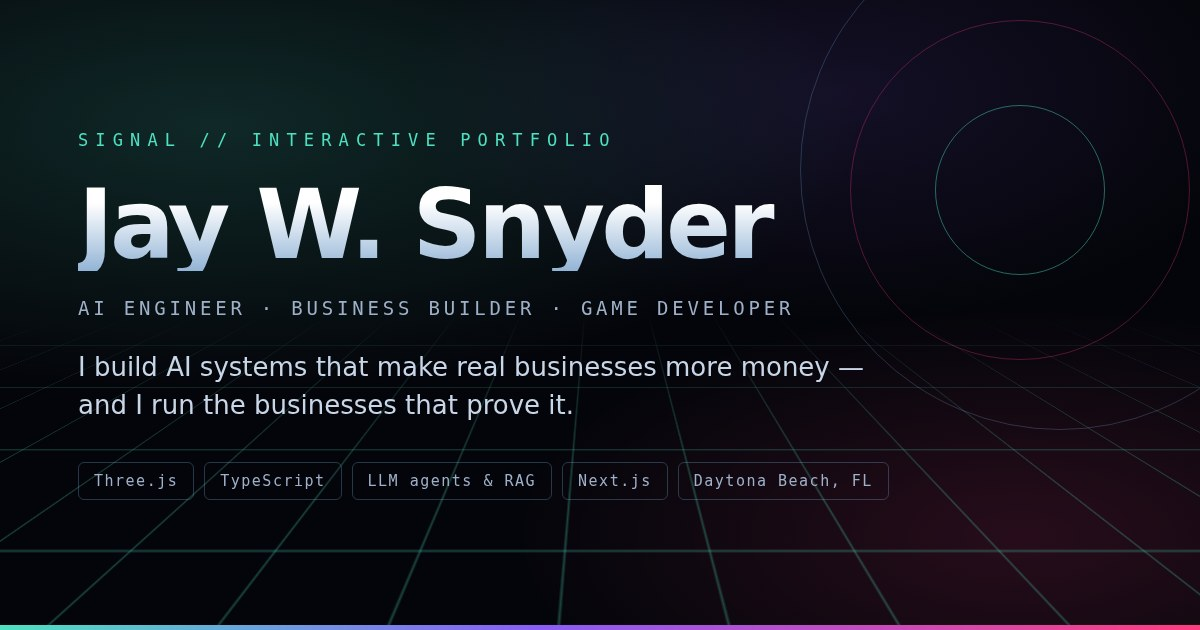
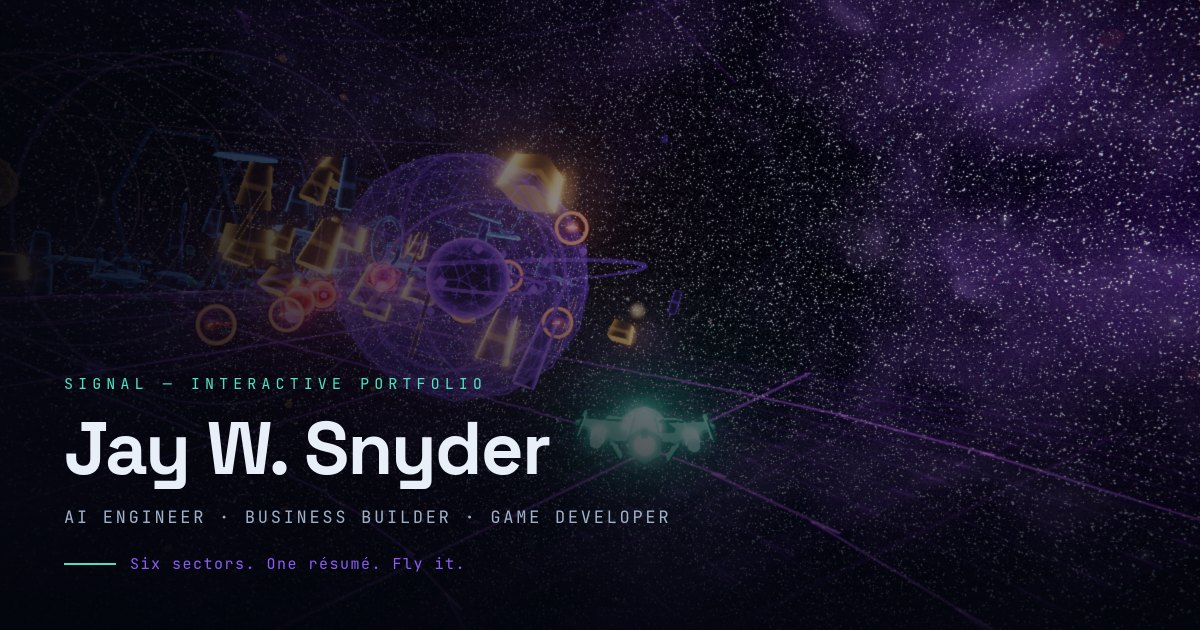
Make threat markers readable over bloom, give the sky parallax, redo the OG card
Three items the graphics review named, in order of how much they cost.

Threat markers were drawn additively, and hostiles cluster around the node —
the brightest object in the frame. An additive ring over a bloom source has
nothing left to add, so the one layer that has to stay readable, the one saying
where the things shooting at you are, was the first to dissolve. The marker is
normal-blended now with a dark moat outside its ring: a band that takes light
away separates against any background there is. It also draws after the world,
so a prop can never sort in front of the thing it marks.

The sky had no parallax at all. A skybox is pinned to camera rotation and
nothing else, so across a six-sector flight the ship moved thousands of units
and the backdrop did not shift by a pixel — every depth cue in the frame was in
the foreground, and the largest surface in view was rigid. The noise field it
samples is volumetric, so the sample point now drifts with the camera, and the
two layers drift at very different rates: the deep cloud barely moves, which is
right for something light-years out, while the filaments drift four times
faster. It is that difference the eye reads as distance. Verified by rendering
the sky in isolation at fixed camera pose across a route's worth of travel,
against a frozen-drift control — the shape of check that would have caught it
being a no-op.

The social card was still the v2 look, rendered with fallback system fonts
[…]

diff --git a/src/world/Nebula.ts b/src/world/Nebula.ts
@@ -32,6 +32,7 @@ const FRAG = /* glsl */ `
   uniform vec3 uDeep;
   uniform float uTime;
   uniform float uDensity;
+  uniform vec3 uEye;
   varying vec3 vDir;
 
   float hash(vec3 p) {
@@ -67,12 +68,33 @@ const FRAG = /* glsl */ `
     vec3 d = normalize(vDir);
 
     // Very slow drift keeps the sky alive without ever drawing attention.
-    vec3 p = d * 2.2 + vec3(0.0, 0.0, uTime * 0.006);
+    /*
+     * Parallax.
+     *
+     * A skybox is pinned to the camera's rotation and nothing else, so for the
+     * whole length of a six-sector flight the backdrop is rigid: the ship moves
+     * thousands of units and the sky behind it does not shift by a pixel. That
+     * is why the corridor read as objects in a void — everything with depth cues
+     * was in the foreground, and the largest surface in frame was flat.
+     *
+     * True parallax is impossible on a sphere at the far plane, but the noise
+     * field it samples is volumetric, so drifting the sample point with the
+     * camera gives the same read for one uniform.
+     *
+     * The rates matter more than the magnitude. The deep cloud barely moves,
+     * which is correct — a nebula light-years out should not swim past the
+     * canopy — while the filaments drift an order of magnitude faster. It is
+     * that *difference* the eye reads as distance, not the absolute motion, so
+     * the sky stays still enough to feel vast and still shifts enough that you
+     * can tell you are travelling through it rather than dragging it along.
+     */
+    vec3 drift = uEye * 0.00045;
+    vec3 p = d * 2.2 + drift + vec3(0.0, 0.0, uTime * 0.006);
 
     float base = fbm(p);
     // Domain warp: feed the first field back in to get filaments and voids
     // instead of the cotton-wool look plain fbm gives you.
-    float wisp = fbm(p * 2.6 + vec3(base * 2.4));
+    float wisp = fbm(p * 2.6 + drift * 4.0 + vec3(base * 2.4));
 
     /*
      * Thresholds are the whole ballgame here, and this shader has now been
@@ -129,6 +151,7 @@ export class Nebula {
         uDeep: { value: new THREE.Color(0x04050c) },
         uTime: { value: 0 },
         uDensity: { value: density },
+        uEye: { value: new THREE.Vector3() },
       },
       vertexShader: VERT,
       fragmentShader: FRAG,
@@ -157,8 +180,9 @@ export class Nebula {
     this.material.uniforms.uDensity.value = v;
   }
 
-  update(elapsed: number, dt: number): void {
+  update(elapsed: number, dt: number, eye?: THREE.Vector3): void {
     this.material.uniforms.uTime.value = elapsed;
+    if (eye) (this.material.uniforms.uEye.value as THREE.Vector3).copy(eye);
     const k = Math.min(1, dt * 1.1);
     (this.material.uniforms.uColorA.value as THREE.Color).lerp(this.targetA, k);
     (this.material.uniforms.uColorB.value as THREE.Color).lerp(this.targetB, k);

diff --git a/src/world/Enemy.ts b/src/world/Enemy.ts
@@ -177,23 +177,36 @@ export function buildEnemy(kind: EnemyKind, color: number, size: number): EnemyV
         void main() {
           float r = length(vUv - 0.5) * 2.0;
           if (r > 1.0) discard;
-          // A soft ring rather than a disc, so it frames the hull instead of
+
+          // A ring rather than a disc, so the marker frames the hull instead of
           // hiding it.
-          // A tighter, dimmer ring than the first pass. It has to find a
-          // hostile against a starfield, not compete with the node core it is
-          // often drawn in front of.
-          float ring = smoothstep(0.68, 0.9, r) * smoothstep(1.0, 0.92, r);
-          float core = pow(1.0 - r, 6.0) * 0.2;
-          float a = ring * 0.6 + core;
-          gl_FragColor = vec4(uColor * (ring * 1.5 + core * 1.8), a);
+          float ring = smoothstep(0.66, 0.78, r) * smoothstep(0.93, 0.85, r);
+
+          // A dark moat immediately outside the ring, and the reason this is
+          // drawn with normal blending rather than additively. Hostiles cluster
+          // around the node, which is the brightest object in the frame; an
+          // additive marker over a bloom source has nothing left to add and
+          // simply dissolves into the glow, so the one layer that has to stay
+          // readable — where the things shooting at you are — was the first to
+          // go. A band that takes light away separates against any background.
+          float moat = smoothstep(0.85, 0.93, r) * smoothstep(1.0, 0.95, r);
+
+          // Unpremultiplied: the moat contributes alpha but no colour, so it
+          // reads as a shadow, while the ring carries the threat colour lifted
+          // toward white so it still holds up against a bright core behind it.
+          float a = clamp(ring * 0.92 + moat * 0.55, 0.0, 1.0);
+          vec3 col = (uColor * 1.5 + vec3(0.22)) * ring;
+          gl_FragColor = vec4(col, a);
         }
       `,
       transparent: true,
       depthWrite: false,
-      blending: THREE.AdditiveBlending,
     }),
   );
   const halo = new THREE.Mesh(keep(new THREE.PlaneGeometry(9, 9)), haloMat);
+  // Threat markers are an information layer: they draw after the world so a
+  // node or a prop can never end up sorted in front of the thing it is marking.
+  halo.renderOrder = 5;
   group.add(halo);
 
   group.scale.setScalar(size / 2.6);

diff --git a/src/world/World.ts b/src/world/World.ts
@@ -139,7 +139,7 @@ export class World {
     this.cloud.copy(accent).multiplyScalar(0.5);
     this.hotCloud.copy(accent).lerp(WHITE, 0.4).multiplyScalar(0.72);
     this.nebula.setPalette(this.cloud.getHex(), this.hotCloud.getHex(), deep.getHex());
-    this.nebula.update(elapsed, dt);
+    this.nebula.update(elapsed, dt, ship.object.position);
 
     // Fog glues distant structures into the sky rather than leaving them
     // floating on top of it — but only a trace of accent, and darker than the
